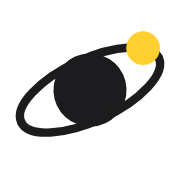
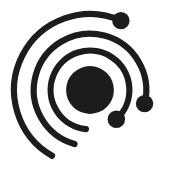
feat: 파비콘을 행성+궤도 3개 마크로 교체 (참조 아이콘 기준), 이전 위성 마크 삭제
Claude-Session: https://claude.ai/code/session_019avRVGHTzYTSfmA6HKGjhA

Changed region(s): [[0.0556, 0.0556, 0.9167, 0.8889]]

diff --git a/components/orbit-mark.tsx b/components/orbit-mark.tsx
@@ -1,19 +1,17 @@
 /**
- * Orbit 마크 — 행성 + 기울어진 궤도 + 위성. public/favicon.svg 와 같은 도형입니다.
- * 행성·궤도는 currentColor 라 놓이는 곳의 글자색을 따르고, 위성만 색을 따로 받습니다
- * (노란 배경 위에서는 흰색을 넘겨야 보입니다).
+ * Orbit 마크 — 행성 하나와 궤도 세 개, 각 궤도 끝의 위성. public/favicon.svg 와 같은 도형입니다.
+ * 전부 currentColor 라 놓이는 곳의 글자색을 따릅니다.
  */
-export function OrbitMark({ size = 24, satellite = 'var(--c-brand, #ffd02f)', className }: {
-  size?: number; satellite?: string; className?: string;
-}) {
+export function OrbitMark({ size = 24, className }: { size?: number; className?: string }) {
   return (
     <svg aria-hidden="true" className={className} fill="none" height={size} viewBox="0 0 64 64" width={size}>
-      <g transform="translate(32 32) rotate(-25)">
-        <path d="M-27 0A27 11 0 0 1 27 0" stroke="currentColor" strokeLinecap="round" strokeWidth="3" />
-        <circle fill="currentColor" r="13" />
-        <path d="M27 0A27 11 0 0 1-27 0" stroke="currentColor" strokeLinecap="round" strokeWidth="3" />
-        <circle cx="23.4" cy="-5.5" fill={satellite} r="6" />
-      </g>
+      <circle cx="32" cy="32" fill="currentColor" r="8.5" />
+      <path d="M30.54 45.92A14 14 0 1 1 41.37 42.4" stroke="currentColor" strokeLinecap="round" strokeWidth="2.2" />
+      <path d="M26.49 51.23A20 20 0 1 1 51.41 36.84" stroke="currentColor" strokeLinecap="round" strokeWidth="2.2" />
+      <path d="M18.5 55.38A27 27 0 0 1 42.98 7.33" stroke="currentColor" strokeLinecap="round" strokeWidth="2.2" />
+      <circle cx="41.37" cy="42.4" fill="currentColor" r="3.1" />
+      <circle cx="51.41" cy="36.84" fill="currentColor" r="3.1" />
+      <circle cx="42.98" cy="7.33" fill="currentColor" r="3.1" />
     </svg>
   );
 }

diff --git a/app/page.tsx b/app/page.tsx
@@ -380,7 +380,7 @@ export default function Home() {
         <div className="sidebar-head">
           {/* 로고·워드마크는 홈(대쉬보드) 버튼입니다 — 접힌 상태에서는 로고만 남습니다 */}
           <button className="brand-home" onClick={() => goTo('대쉬보드')} aria-label={t("대쉬보드로 이동")} title={t("대쉬보드")}>
-            <span className="brand-mark"><OrbitMark satellite="#ffffff" size={28} /></span>
+            <span className="brand-mark"><OrbitMark size={28} /></span>
             {navOpen && <b className="brand-word">Orbit</b>}
           </button>
           <button className="nav-toggle" onClick={toggleNav} aria-expanded={navOpen}

diff --git a/app/login/login-view.tsx b/app/login/login-view.tsx
@@ -57,7 +57,7 @@ export function LoginView() {
 
   return <main className="login-page">
     {/* oxlint-disable-next-line next/no-html-link-for-pages -- 로그인→랜딩은 다른 레이아웃 트리라 전체 로드가 맞습니다 */}
-    <a className="login-brand" href="/landing"><span className="brand-mark"><OrbitMark satellite="#ffffff" size={26} /></span><b>Orbit</b></a>
+    <a className="login-brand" href="/landing"><span className="brand-mark"><OrbitMark size={26} /></span><b>Orbit</b></a>
 
     <section className="login-card">
       <span className="section-kicker">Sign in</span>
